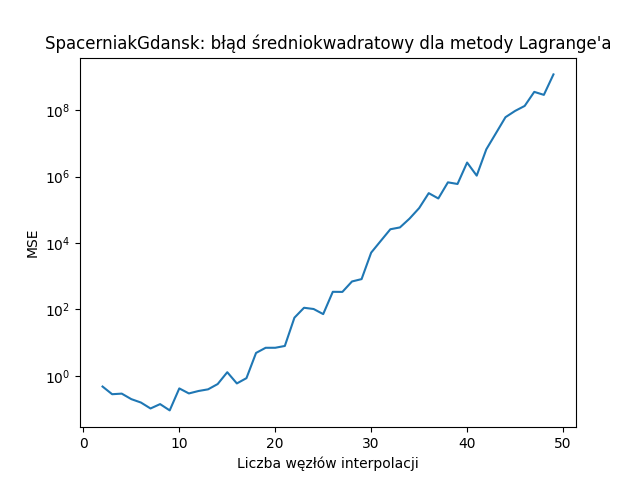
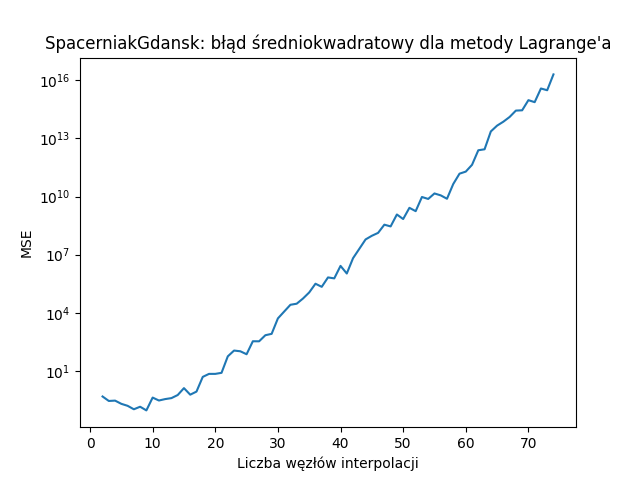
added 2 more paths with all plots for them

diff --git a/main.py b/main.py
@@ -191,7 +191,7 @@ def makePlots(x, y, dataName, k=15):
     plt.savefig(f"{plotPath}{dataName}_Spline.png")
 
     # blad sredniokwadratowy dla spline
-    k, MSE = meanSquareError(x, y, splineMethod, 2, 50)
+    k, MSE = meanSquareError(x, y, splineMethod, 2, 75)
 
     plt.figure()
     plt.semilogy(k, MSE)
@@ -201,7 +201,7 @@ def makePlots(x, y, dataName, k=15):
     plt.savefig(f"{plotPath}{dataName}_Spline_MSE.png")
 
     # blad sredniokwadratowy dla lagrange
-    k, MSE = meanSquareError(x, y, lagrangeMethod, 2, 50)
+    k, MSE = meanSquareError(x, y, lagrangeMethod, 2, 75)
 
     plt.figure()
     plt.semilogy(k, MSE)
@@ -211,11 +211,19 @@ def makePlots(x, y, dataName, k=15):
     plt.savefig(f"{plotPath}{dataName}_Lagrange_MSE.png")
 
 
-
 if __name__ == '__main__':
-    data = pd.read_csv(dataPath+"SpacerniakGdansk.csv", header=0, names=['x', 'y'])
 
+    data = pd.read_csv(dataPath+"SpacerniakGdansk.csv", header=0, names=['x', 'y'])
     x = data['x'].to_numpy()
     y = data['y'].to_numpy()
-
     makePlots(x, y, "SpacerniakGdansk", 20)
+
+    data = pd.read_csv(dataPath + "stale.txt", header=0, names=['x', 'y'])
+    x = data['x'].to_numpy()
+    y = data['y'].to_numpy()
+    makePlots(x, y, "Stale", 20)
+
+    data = pd.read_csv(dataPath + "rozne_wniesienia.txt", header=0, names=['x', 'y'])
+    x = data['x'].to_numpy()
+    y = data['y'].to_numpy()
+    makePlots(x, y, "rozne_wzniesienia", 20)
